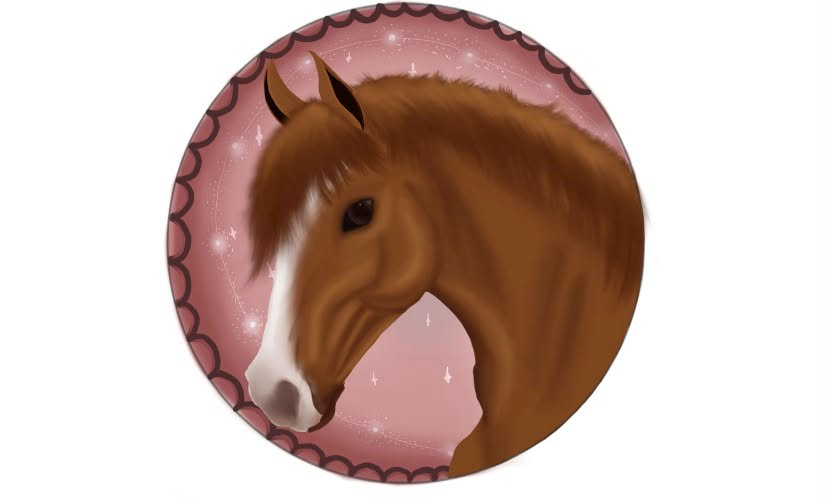
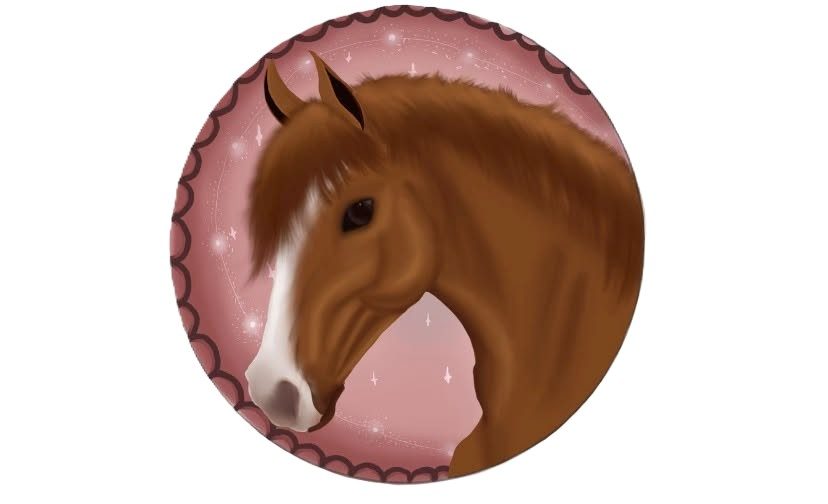
Cover als transparentes PNG (ohne weißen Hintergrund)

diff --git a/index.html b/index.html
@@ -9,8 +9,8 @@
   <meta name="keywords" content="Sunshine Runners Allstars, Star Stable Online, Club, SSO, SSO Club, Reiten, Pferde, Jorvik, Star Stable Club, Reitclub">
   <meta name="author" content="Sunshine Runners Allstars">
   <link rel="canonical" href="https://lockebu.github.io/Sunshine-Runners-Allstars-Website/">
-  <link rel="icon" href="neues cover der cunchine runners allstars.jpeg" type="image/jpeg">
-  <link rel="apple-touch-icon" href="neues cover der cunchine runners allstars.jpeg">
+  <link rel="icon" href="neues cover der cunchine runners allstars.png" type="image/png">
+  <link rel="apple-touch-icon" href="neues cover der cunchine runners allstars.png">
 
   <!-- Open Graph Tags -->
   <meta property="og:title" content="Sunshine Runners Allstars – Star Stable Online Club">
@@ -19,14 +19,14 @@
   <meta property="og:url" content="https://lockebu.github.io/Sunshine-Runners-Allstars-Website/">
   <meta property="og:locale" content="de_DE">
   <meta property="og:site_name" content="Sunshine Runners Allstars">
-  <meta property="og:image" content="https://lockebu.github.io/Sunshine-Runners-Allstars-Website/neues%20cover%20der%20cunchine%20runners%20allstars.jpeg">
+  <meta property="og:image" content="https://lockebu.github.io/Sunshine-Runners-Allstars-Website/neues%20cover%20der%20cunchine%20runners%20allstars.png">
   <meta property="og:image:alt" content="Logo der Sunshine Runners Allstars – Star Stable Online Club">
 
   <!-- Twitter Card Tags -->
   <meta name="twitter:card" content="summary_large_image">
   <meta name="twitter:title" content="Sunshine Runners Allstars – Star Stable Online Club">
   <meta name="twitter:description" content="Ein freundlicher Star Stable Online Club (SSO Club). Gemeinsam reiten, leveln und Spaß haben in Jorvik!">
-  <meta name="twitter:image" content="https://lockebu.github.io/Sunshine-Runners-Allstars-Website/neues%20cover%20der%20cunchine%20runners%20allstars.jpeg">
+  <meta name="twitter:image" content="https://lockebu.github.io/Sunshine-Runners-Allstars-Website/neues%20cover%20der%20cunchine%20runners%20allstars.png">
   <meta name="twitter:image:alt" content="Logo der Sunshine Runners Allstars">
 
   <!-- Weitere SEO-Meta -->
